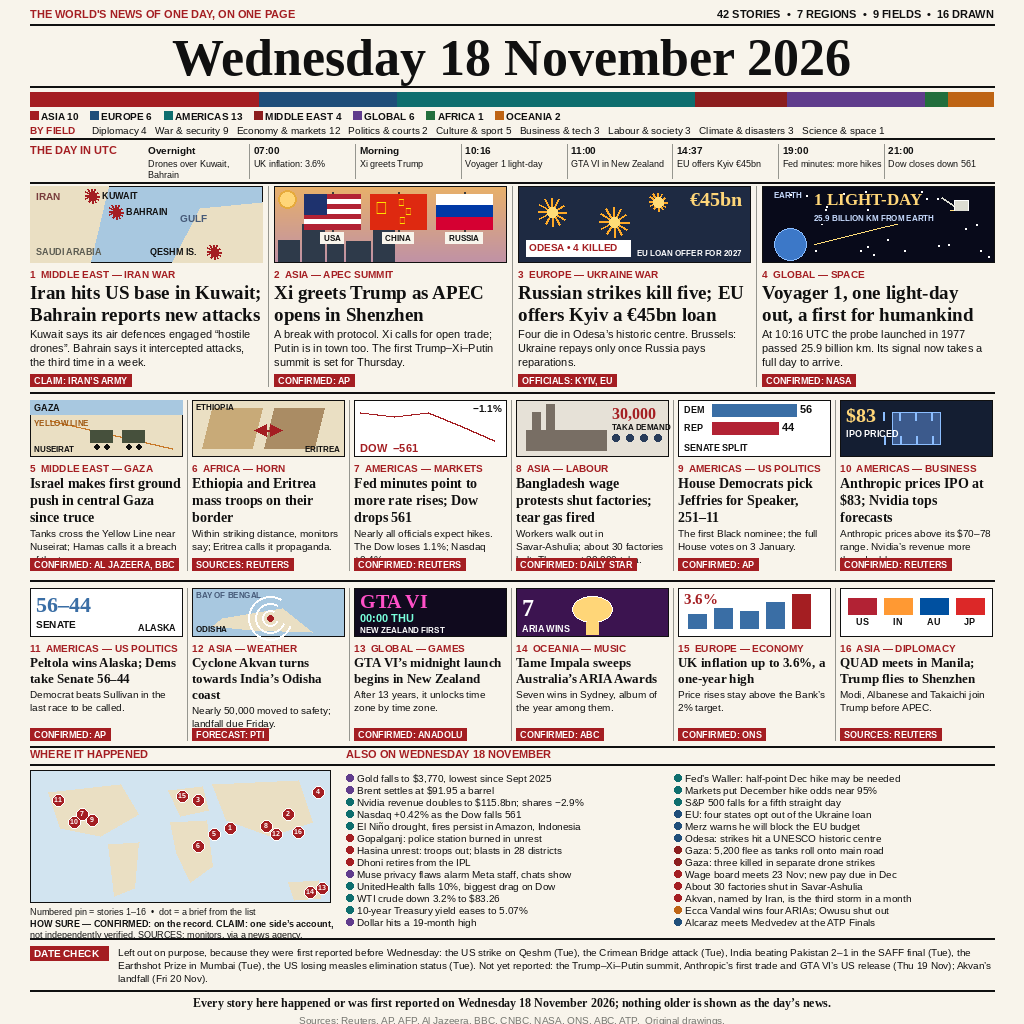
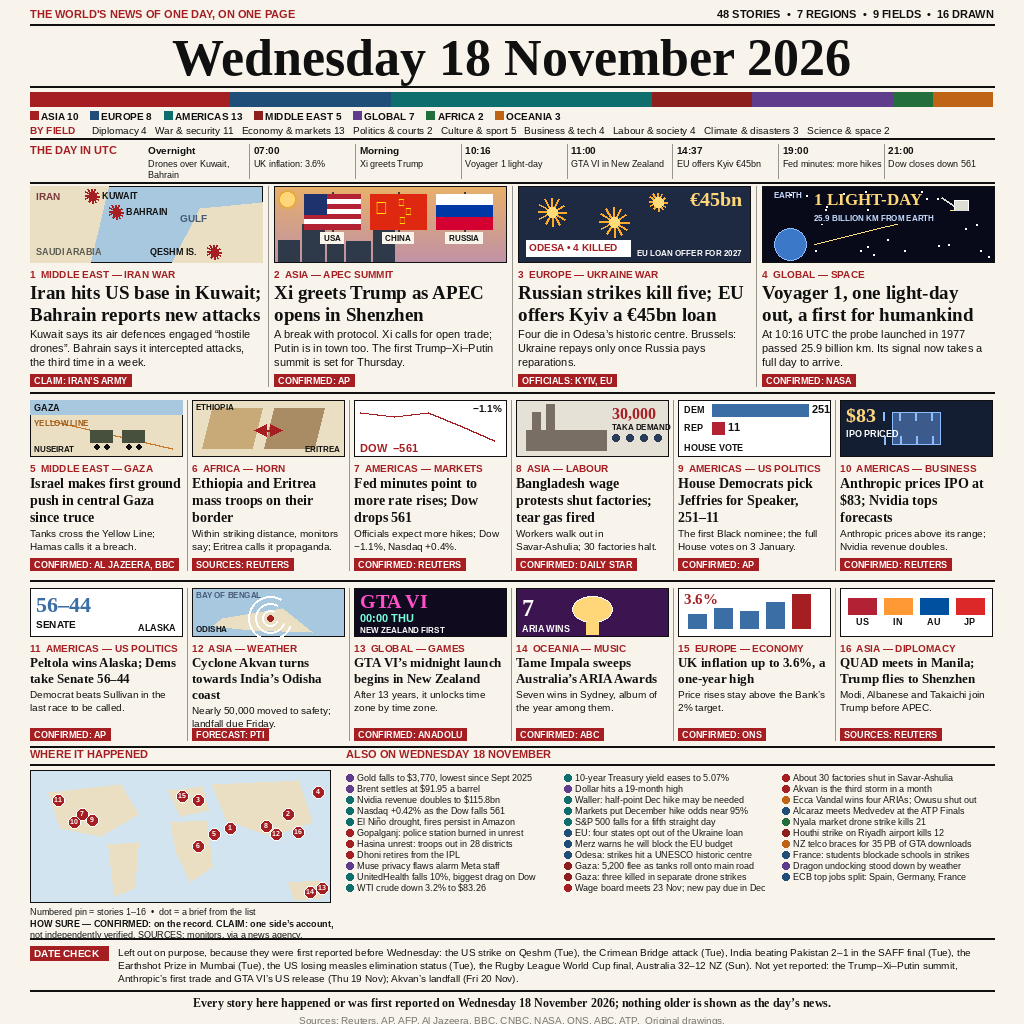
news-image v3: 48-story front page, 3-column briefs, date check extended

diff --git a/main.ts b/main.ts
@@ -2,7 +2,7 @@ import { copyFileSync, mkdirSync } from "node:fs";
 import { dirname, join } from "node:path";
 import { fileURLToPath } from "node:url";
 
-// Entry for news-image-20261118 (v2): the whole program is one image.
+// Entry for news-image-20261118 (v3): the whole program is one image.
 // Copy it to the output directory, byte for byte, deterministically.
 const root = dirname(fileURLToPath(import.meta.url));
 const outDir = process.env.MAKEFUN_OUTPUT_DIR ?? "/output";

diff --git a/render.py b/render.py
@@ -1,5 +1,5 @@
 #!/usr/bin/env python3
-"""Render v2 of the 18 November 2026 front page: 42 verified stories,
+"""Render v3 of the 18 November 2026 front page: 48 verified stories,
 7 regions, UTC timeline, proof tags, world map, date check.
 All art drawn programmatically with Pillow. No external assets.
 Own design and wording; layout follows the proven dense-front-page form."""
@@ -91,7 +91,7 @@ def burst(cx, cy, r=7, color=RED):
 
 # ---------------- top line ----------------
 d.text((M, 8), "THE WORLD'S NEWS OF ONE DAY, ON ONE PAGE", font=sans_b(11), fill=RED)
-d.text((W - M, 8), "42 STORIES  \u2022  7 REGIONS  \u2022  9 FIELDS  \u2022  16 DRAWN", font=sans_b(11), fill=INK, anchor="ra")
+d.text((W - M, 8), "48 STORIES  \u2022  7 REGIONS  \u2022  9 FIELDS  \u2022  16 DRAWN", font=sans_b(11), fill=INK, anchor="ra")
 rule(24)
 
 # ---------------- masthead ----------------
@@ -99,11 +99,11 @@ center(28, "Wednesday 18 November 2026", serif_b(52))
 rule(86)
 
 # ---------------- region bar (segments + legend line) ----------------
-REGIONS = [("ASIA", 10, RED), ("EUROPE", 6, BLUE), ("AMERICAS", 13, TEAL),
-           ("MIDDLE EAST", 4, DARKRED), ("GLOBAL", 6, PURPLE), ("AFRICA", 1, GREEN),
-           ("OCEANIA", 2, ORANGE)]
+REGIONS = [("ASIA", 10, RED), ("EUROPE", 8, BLUE), ("AMERICAS", 13, TEAL),
+           ("MIDDLE EAST", 5, DARKRED), ("GLOBAL", 7, PURPLE), ("AFRICA", 2, GREEN),
+           ("OCEANIA", 3, ORANGE)]
 x = M
-tot = 42
+tot = 48
 for name, n, color in REGIONS:
     w = CW * n / tot
     d.rectangle([x, 92, x + w - 1, 106], fill=color)
@@ -114,7 +114,7 @@ for name, n, color in REGIONS:
     d.text((rx + 11, 110), f"{name} {n}", font=sans_b(10), fill=INK)
     rx += 11 + d.textlength(f"{name} {n}", font=sans_b(10)) + 12
 d.text((M, 124), "BY FIELD", font=sans_b(10), fill=RED)
-d.text((M + 62, 124), "Diplomacy 4   War & security 9   Economy & markets 12   Politics & courts 2   Culture & sport 5   Business & tech 3   Labour & society 3   Climate & disasters 3   Science & space 1", font=sans(10), fill=INK)
+d.text((M + 62, 124), "Diplomacy 4   War & security 11   Economy & markets 13   Politics & courts 2   Culture & sport 5   Business & tech 4   Labour & society 4   Climate & disasters 3   Science & space 2", font=sans(10), fill=INK)
 rule(138)
 
 # ---------------- UTC timeline ----------------
@@ -295,12 +295,12 @@ def draw_factory(x0, y0, x1, y1):
 def draw_senate(x0, y0, x1, y1):
     d.rectangle([x0, y0, x1, y1], fill=(255, 255, 255), outline=INK, width=1)
     d.text((x0 + 6, y0 + 4), "DEM", font=sans_b(9), fill=INK)
-    d.rectangle([x0 + 34, y0 + 4, x0 + 34 + 84, y0 + 16], fill=MIDBLUE)
-    d.text((x0 + 122, y0 + 3), "56", font=sans_b(11), fill=INK)
+    d.rectangle([x0 + 34, y0 + 4, x0 + 34 + 96, y0 + 16], fill=MIDBLUE)
+    d.text((x0 + 134, y0 + 3), "251", font=sans_b(11), fill=INK)
     d.text((x0 + 6, y0 + 22), "REP", font=sans_b(9), fill=INK)
-    d.rectangle([x0 + 34, y0 + 22, x0 + 34 + 66, y0 + 34], fill=(178, 34, 52))
-    d.text((x0 + 104, y0 + 21), "44", font=sans_b(11), fill=INK)
-    d.text((x0 + 6, y1 - 14), "SENATE SPLIT", font=sans_b(9), fill=INK)
+    d.rectangle([x0 + 34, y0 + 22, x0 + 34 + 12, y0 + 34], fill=(178, 34, 52))
+    d.text((x0 + 50, y0 + 21), "11", font=sans_b(11), fill=INK)
+    d.text((x0 + 6, y1 - 14), "HOUSE VOTE", font=sans_b(9), fill=INK)
 
 def draw_chip(x0, y0, x1, y1):
     d.rectangle([x0, y0, x1, y1], fill=(20, 30, 50), outline=INK, width=1)
@@ -313,22 +313,22 @@ def draw_chip(x0, y0, x1, y1):
 
 MIDS = [
     ("5  MIDDLE EAST \u2014 GAZA", "Israel makes first ground push in central Gaza since truce",
-     "Tanks cross the Yellow Line near Nuseirat; Hamas calls it a breach of the truce.",
+     "Tanks cross the Yellow Line; Hamas calls it a breach.",
      "CONFIRMED: AL JAZEERA, BBC", draw_gaza),
     ("6  AFRICA \u2014 HORN", "Ethiopia and Eritrea mass troops on their border",
      "Within striking distance, monitors say; Eritrea calls it propaganda.",
      "SOURCES: REUTERS", draw_horn),
     ("7  AMERICAS \u2014 MARKETS", "Fed minutes point to more rate rises; Dow drops 561",
-     "Nearly all officials expect hikes. The Dow loses 1.1%; Nasdaq +0.4%.",
+     "Officials expect more hikes; Dow \u22121.1%, Nasdaq +0.4%.",
      "CONFIRMED: REUTERS", draw_fed),
     ("8  ASIA \u2014 LABOUR", "Bangladesh wage protests shut factories; tear gas fired",
-     "Workers walk out in Savar-Ashulia; about 30 factories halt. They want 30,000 taka.",
+     "Workers walk out in Savar-Ashulia; 30 factories halt.",
      "CONFIRMED: DAILY STAR", draw_factory),
     ("9  AMERICAS \u2014 US POLITICS", "House Democrats pick Jeffries for Speaker, 251\u201311",
      "The first Black nominee; the full House votes on 3 January.",
      "CONFIRMED: AP", draw_senate),
     ("10  AMERICAS \u2014 BUSINESS", "Anthropic prices IPO at $83; Nvidia tops forecasts",
-     "Anthropic prices above its $70\u201378 range. Nvidia\u2019s revenue more than doubles.",
+     "Anthropic prices above its range; Nvidia revenue doubles.",
      "CONFIRMED: REUTERS", draw_chip),
 ]
 for i, (kick, head, summ, t, drawfn) in enumerate(MIDS):
@@ -452,18 +452,18 @@ d.text((MAPX, MAPY + MAPH + 27), "not independently verified. SOURCES: monitors,
 BRIEFS = [
     ("Gold falls to $3,770, lowest since Sept 2025", PURPLE),
     ("Brent settles at $91.95 a barrel", PURPLE),
-    ("Nvidia revenue doubles to $115.8bn; shares \u22122.9%", TEAL),
+    ("Nvidia revenue doubles to $115.8bn", TEAL),
     ("Nasdaq +0.42% as the Dow falls 561", TEAL),
-    ("El Ni\u00f1o drought, fires persist in Amazon, Indonesia", TEAL),
+    ("El Ni\u00f1o drought, fires persist in Amazon", TEAL),
     ("Gopalganj: police station burned in unrest", RED),
-    ("Hasina unrest: troops out; blasts in 28 districts", RED),
+    ("Hasina unrest: troops out in 28 districts", RED),
     ("Dhoni retires from the IPL", RED),
-    ("Muse privacy flaws alarm Meta staff, chats show", PURPLE),
+    ("Muse privacy flaws alarm Meta staff", PURPLE),
     ("UnitedHealth falls 10%, biggest drag on Dow", TEAL),
     ("WTI crude down 3.2% to $83.26", TEAL),
     ("10-year Treasury yield eases to 5.07%", TEAL),
     ("Dollar hits a 19-month high", PURPLE),
-    ("Fed\u2019s Waller: half-point Dec hike may be needed", TEAL),
+    ("Waller: half-point Dec hike may be needed", TEAL),
     ("Markets put December hike odds near 95%", TEAL),
     ("S&P 500 falls for a fifth straight day", TEAL),
     ("EU: four states opt out of the Ukraine loan", BLUE),
@@ -473,20 +473,29 @@ BRIEFS = [
     ("Gaza: three killed in separate drone strikes", DARKRED),
     ("Wage board meets 23 Nov; new pay due in Dec", RED),
     ("About 30 factories shut in Savar-Ashulia", RED),
-    ("Akvan, named by Iran, is the third storm in a month", RED),
+    ("Akvan is the third storm in a month", RED),
     ("Ecca Vandal wins four ARIAs; Owusu shut out", ORANGE),
     ("Alcaraz meets Medvedev at the ATP Finals", BLUE),
+    ("Nyala market drone strike kills 21", GREEN),
+    ("Houthi strike on Riyadh airport kills 12", DARKRED),
+    ("NZ telco braces for 35 PB of GTA downloads", ORANGE),
+    ("France: students blockade schools in strikes", BLUE),
+    ("Dragon undocking stood down by weather", PURPLE),
+    ("ECB top jobs split: Spain, Germany, France", BLUE),
 ]
 BX0 = M + 316
-BCOLW = (W - M - BX0 - 8) // 2
-for col in range(2):
+BCOLW = (W - M - BX0 - 16) // 3
+for col in range(3):
     x = BX0 + col * (BCOLW + 8)
     y = BY + 24
-    for j in range(13):
-        text, color = BRIEFS[col * 13 + j]
+    for j in range(11):
+        idx = col * 11 + j
+        if idx >= len(BRIEFS):
+            break
+        text, color = BRIEFS[idx]
         d.ellipse([x, y + 2, x + 7, y + 9], fill=color)
-        d.text((x + 11, y), text, font=sans(10), fill=INK)
-        y += 12
+        d.text((x + 11, y), text, font=sans(9), fill=INK)
+        y += 11
 rule(BY + 190)
 
 # ---------------- date check ----------------
@@ -496,7 +505,7 @@ d.rectangle([M, DY, M + 78, DY + 14], fill=RED)
 d.text((M + 4, DY + 1), "DATE CHECK", font=sans_b(10), fill=(255, 255, 255))
 dc = ("Left out on purpose, because they were first reported before Wednesday: the US strike on Qeshm (Tue), "
       "the Crimean Bridge attack (Tue), India beating Pakistan 2\u20131 in the SAFF final (Tue), the Earthshot Prize "
-      "in Mumbai (Tue), the US losing measles elimination status (Tue). Not yet reported: the Trump\u2013Xi\u2013Putin "
+      "in Mumbai (Tue), the US losing measles elimination status (Tue), the Rugby League World Cup final, Australia 32\u201312 NZ (Sun). Not yet reported: the Trump\u2013Xi\u2013Putin "
       "summit, Anthropic\u2019s first trade and GTA VI\u2019s US release (Thu 19 Nov); Akvan\u2019s landfall (Fri 20 Nov).")
 y = DY
 for line in wrap(dc, sans(10), CW - 88):
@@ -508,5 +517,5 @@ rule(DY + 44)
 center(DY + 50, "Every story here happened or was first reported on Wednesday 18 November 2026; nothing older is shown as the day\u2019s news.", serif_b(12))
 center(DY + 68, "Sources: Reuters, AP, AFP, Al Jazeera, BBC, CNBC, NASA, ONS, ABC, ATP.  Original drawings.", sans(10), LIGHT)
 
-img.save("/home/hatch/workspace/makefun/work-news-image-v2/entry.png", optimize=True)
+img.save("/home/hatch/workspace/makefun/work-news-image-v3/entry.png", optimize=True)
 print("saved", img.size)

diff --git a/README.md b/README.md
@@ -5,10 +5,10 @@
 [![reward](https://make.fun/badge/news-image-20261118/DanuMahiru/news-image-20261118/reward.svg)](https://make.fun/bounty/news-image-20261118?utm_source=github&utm_medium=readme&utm_campaign=news-image-20261118)
 
 One image that sums up the world's news on Wednesday, 18 November 2026:
-a dense front page with 42 verified stories across 7 regions — the Gulf
+a dense front page with 48 verified stories across 7 regions — the Gulf
 escalation, the Trump–Xi–Putin summit in Shenzhen, the Odesa strikes and
 the EU's €45bn Ukraine loan, Voyager 1 one light-day out — plus a UTC
-timeline, a world map, 26 more briefs, proof tags and a date check that
+timeline, a world map, 32 more briefs, proof tags and a date check that
 names what was deliberately left out. Every story traces to real reporting
 from that day (Reuters, AP, AFP, Al Jazeera, BBC, CNBC, NASA, ONS, ABC,
 ATP). All artwork is drawn programmatically with Python Pillow — no photos,
